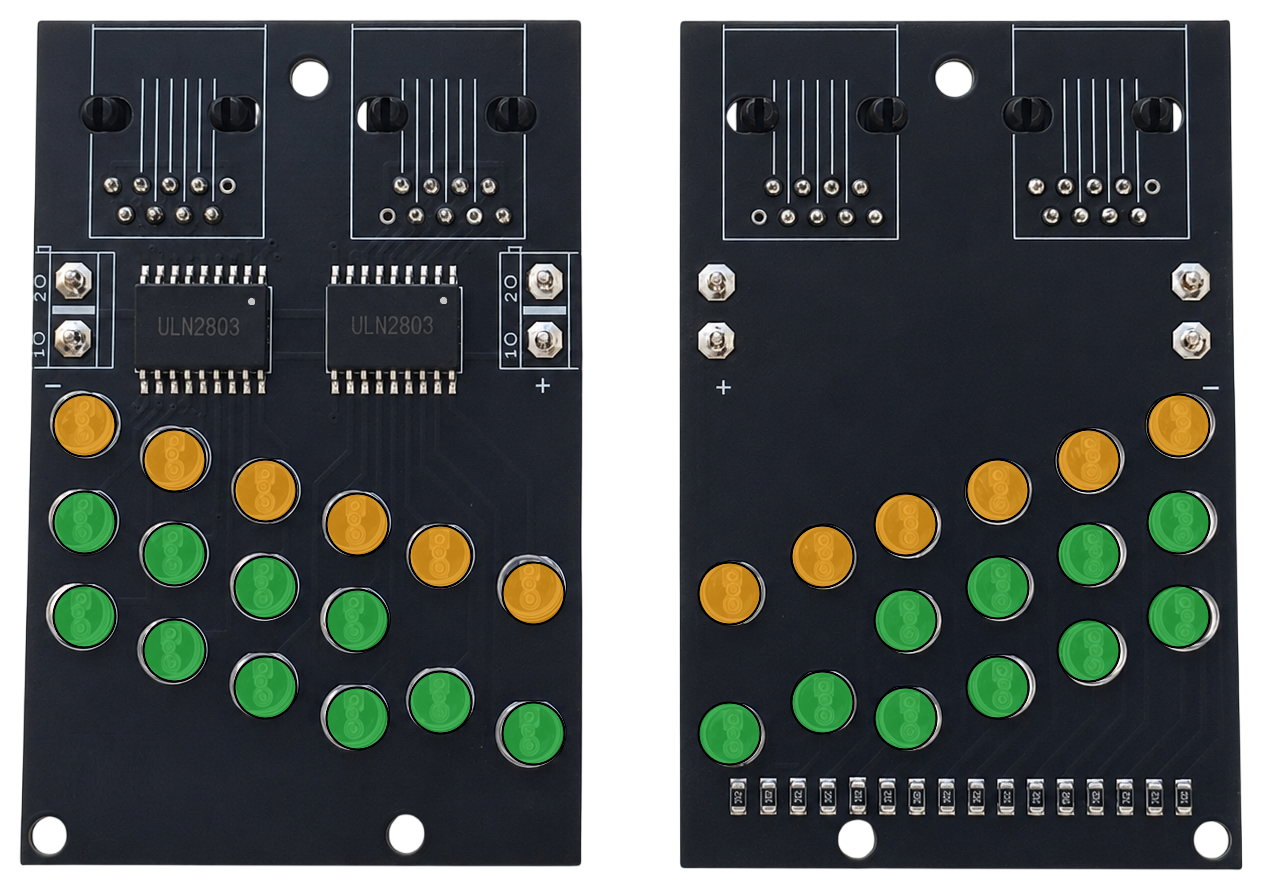
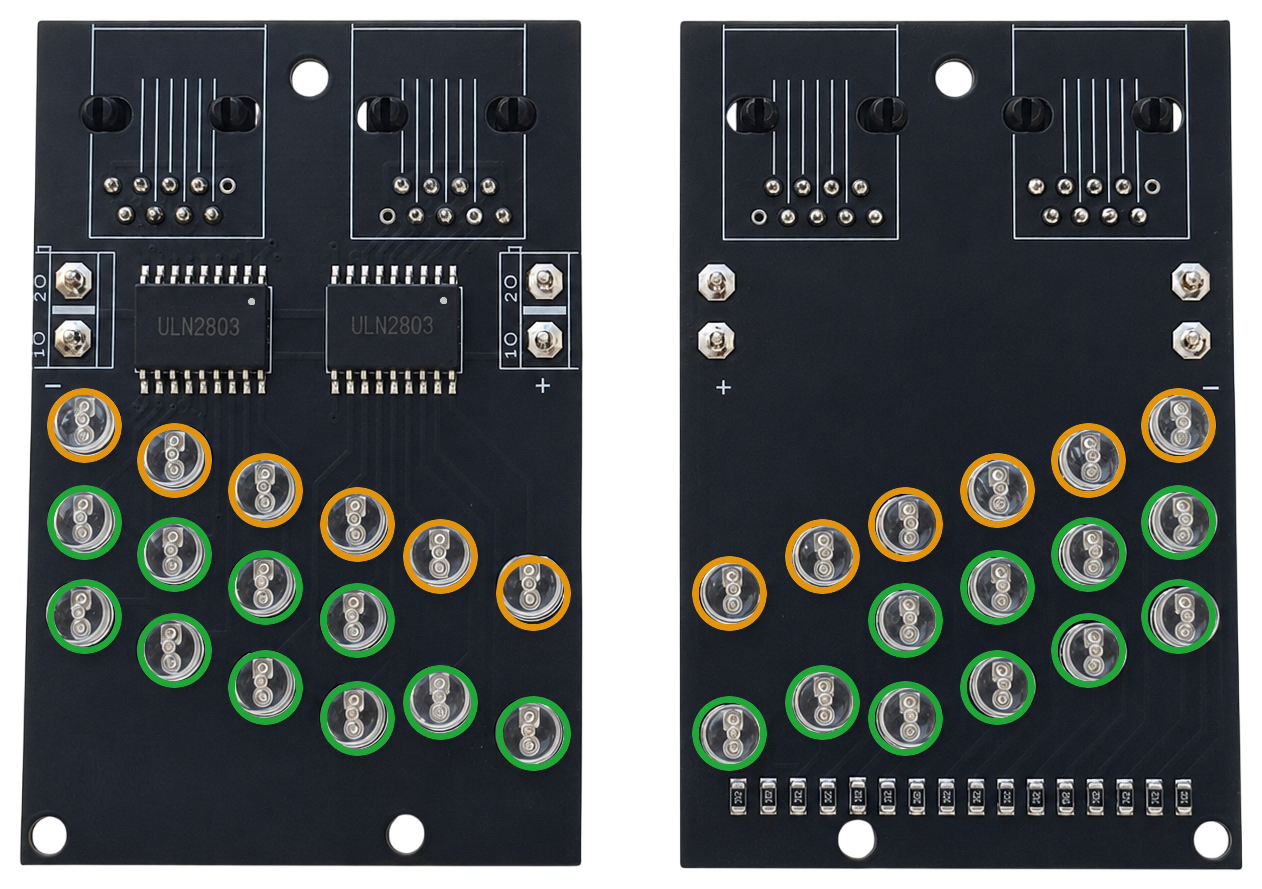
docs: outline the LE Devices LEDs instead of filling them

Changed region(s): [[0.5254, 0.4252, 0.9889, 0.8808], [0.0309, 0.4252, 0.4635, 0.8808]]

diff --git a/docs/pcb/le-devices.md b/docs/pcb/le-devices.md
@@ -49,7 +49,6 @@ Each board takes 2× ULN2803, 2× RJ45, 2× Faston terminals and 16 LEDs with th
 - **Look at the photos carefully before you populate the board.** One design serves both halves of the panel, and the mirroring is easy to get wrong.
 - The two ULN2803 and the 16 SMD resistors are surface mounted. They sit on opposite faces of the board — the drivers on one side, the resistors in a single row along the bottom edge on the other — and they are the same on both boards.
 - The **LEDs**, the **Faston terminals** and the **RJ45 connectors** are the parts that make the difference. On the second board they are pushed in from the opposite side of the board, which mirrors the whole layout for the other half of the panel.
-- The `+` and `−` marks beside the Faston terminals are printed on both faces of the board and swap sides when you turn it over. Go by the mark on the face you are working from, not by the position. The polarity of every LED position is marked on both faces as well.
 
 ### LED Colours
 
@@ -60,4 +59,3 @@ The two boards seen from the front, in the position they take in the panel — t
 - **Yellow** — the **TRANSIT** lamps: the top LED of every group, 6 per board, **12** in total.
 - **Green** — the **EXT** and **FULL EXT** lamps: everything below, 10 per board, **20** in total.
 
-The groups of three are the eight **SLATS** (TRANSIT, EXT, FULL EXT), the groups of two the four **LE FLAPS** (TRANSIT, EXT). The slats sit on the outer sides of the display, the flaps in the middle.
